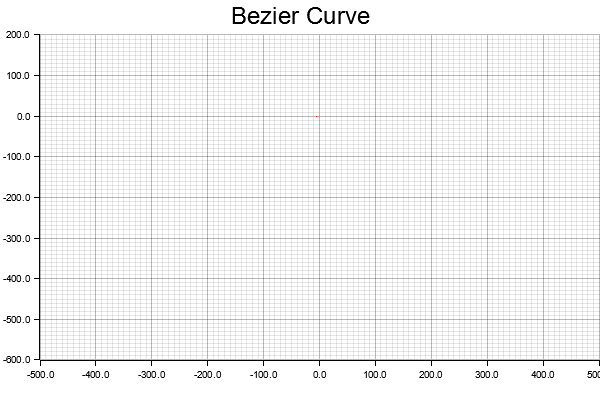
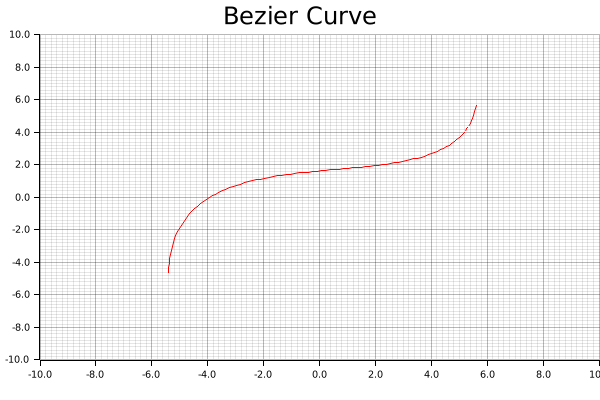
rectified cubic bezier curve eqn and implemented it with inverse kinematics

diff --git a/rust-client/kinematics/src/plot.rs b/rust-client/kinematics/src/plot.rs
@@ -4,7 +4,7 @@ use crate::bezier;
 use crate::path_gen;
 
 pub fn graph() {
-    let drawing_area = BitMapBackend::new("test.png", (600, 400)).into_drawing_area();
+    let drawing_area = BitMapBackend::new("test.png", (10, 10)).into_drawing_area();
 
     drawing_area.fill(&WHITE).unwrap();
 
@@ -12,7 +12,7 @@ pub fn graph() {
         .caption("Kinematics", ("Arial", 30))
         .set_label_area_size(LabelAreaPosition::Bottom, 40)
         .set_label_area_size(LabelAreaPosition::Left, 40)
-        .build_cartesian_2d(0..100, 0..100)
+        .build_cartesian_2d(-10..10, -10..10)
         .unwrap();
 
     chart.configure_mesh().draw().unwrap();
@@ -31,7 +31,7 @@ pub fn curve_plot() {
         .caption("Bezier Curve", ("Arial", 30))
         .set_label_area_size(LabelAreaPosition::Bottom, 40)
         .set_label_area_size(LabelAreaPosition::Left, 40)
-        .build_cartesian_2d(-500f32..500f32, -600f32..200f32)
+        .build_cartesian_2d(-10f32..10f32, -10f32..10f32)
         .unwrap();
 
     chart.configure_mesh().draw().unwrap();
@@ -47,8 +47,8 @@ pub fn curve_plot() {
         .draw_series(LineSeries::new(
             (0..num_steps+1).map(|t: i32| {
                 (
-                    // bezier::curve(t as f32 / num_steps as f32).0,
-                    // bezier::curve(t as f32 / num_steps as f32).1,
+                    bezier::bez_curve(t as f32 / num_steps as f32).0,
+                    bezier::bez_curve(t as f32 / num_steps as f32).1,
 
                     // path_gen::decasteljau(t as f32 / num_steps as f32, &coefs).0,
                     // path_gen::decasteljau(t as f32 / num_steps as f32, &coefs).1,
@@ -57,8 +57,8 @@ pub fn curve_plot() {
                     // path_gen::new_eq(300.0, 100.0, num_steps as f32, t as f32).1
                     
                     // Tm = Tn + 2Te
-                    path_gen::new_eq_2(300.0, 100.0, num_steps as f32, 40.0, 20.0, t as f32).0,
-                    path_gen::new_eq_2(300.0, 100.0, num_steps as f32, 40.0, 20.0, t as f32).1
+                    // path_gen::new_eq_2(300.0, 100.0, num_steps as f32, 40.0, 20.0, t as f32).0,
+                    // path_gen::new_eq_2(300.0, 100.0, num_steps as f32, 40.0, 20.0, t as f32).1
                 )
             }),
             &RED,

diff --git a/rust-client/kinematics/src/bezier.rs b/rust-client/kinematics/src/bezier.rs
@@ -1,4 +1,7 @@
 use nalgebra as na;
+use na::Vector2;
+use crate::inverse_kinematics;
+
 
 pub struct Bezier {
     p0: na::Vector2<f32>,
@@ -19,10 +22,19 @@ impl Bezier {
     }
 }
 
-pub fn curve(t: f32) -> (f32, f32) {
-    let bezier1 = Bezier {p0: na::Vector2::new(0.0, 0.0), p1: na::Vector2::new(3.0, 4.0), p2: na::Vector2::new(9.4, 6.6), p3: na::Vector2::new(12.0, 12.0) };
+pub fn bez_curve(t: f32) -> (f32, f32) {
+    let bezier1 = Bezier {p0: na::Vector2::new(-5.4, -4.63), p1: na::Vector2::new(-5.28, 5.38), p2: na::Vector2::new(4.98, -1.4), p3: na::Vector2::new(5.6, 5.67) };
     let x: f32 = bezier1.gen_curve(t).x;
     let y: f32 = bezier1.gen_curve(t).y;
 
     return (x, y)
+}
+
+pub fn bez_curve_ik(t: f32) -> Vector2<f32>{
+
+    let coord = bez_curve(t);
+    type Vector2 = na::Vector2<f32>;
+    let ik_sol: Vector2 = inverse_kinematics::inverse_ik::<f32>(coord.0, coord.1);
+
+    return ik_sol
 }

diff --git a/rust-client/kinematics/src/inverse_kinematics.rs b/rust-client/kinematics/src/inverse_kinematics.rs
@@ -28,7 +28,7 @@ pub fn inverse_ik<T>(x:f32, y:f32) -> Vector2<f32>
     return inverse_ik_rots::<f32>(inv_sol)
 }
 
-pub fn inverse_ik_rots<T>(degrees:Vector2<f32>) -> Vector2<f32> {
+fn inverse_ik_rots<T>(degrees:Vector2<f32>) -> Vector2<f32> {
     type Vector2 = na::Vector2<f32>;
     let inv_sol_rots: Vector2 = Vector2::new(deg_2_rots(degrees.x), deg_2_rots(degrees.y));
     

diff --git a/rust-client/kinematics/src/main.rs b/rust-client/kinematics/src/main.rs
@@ -1,7 +1,4 @@
 use std::f32::consts::PI;
-use nalgebra::Rotation;
-use path_gen::walk_curve;
-use plotters::coord;
 
 mod plot;
 mod urdf_parser;
@@ -37,5 +34,5 @@ fn main() {
     //     println!("{:?}", path_gen::decasteljau(i, &coefs))
     // }
 
-    // plot::curve_plot();
+    plot::curve_plot();
 }
